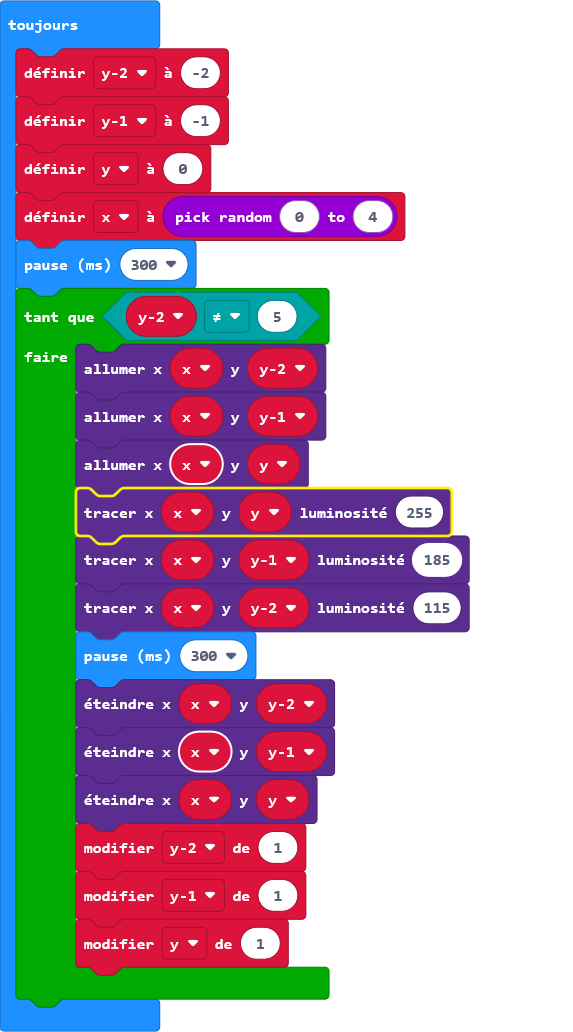
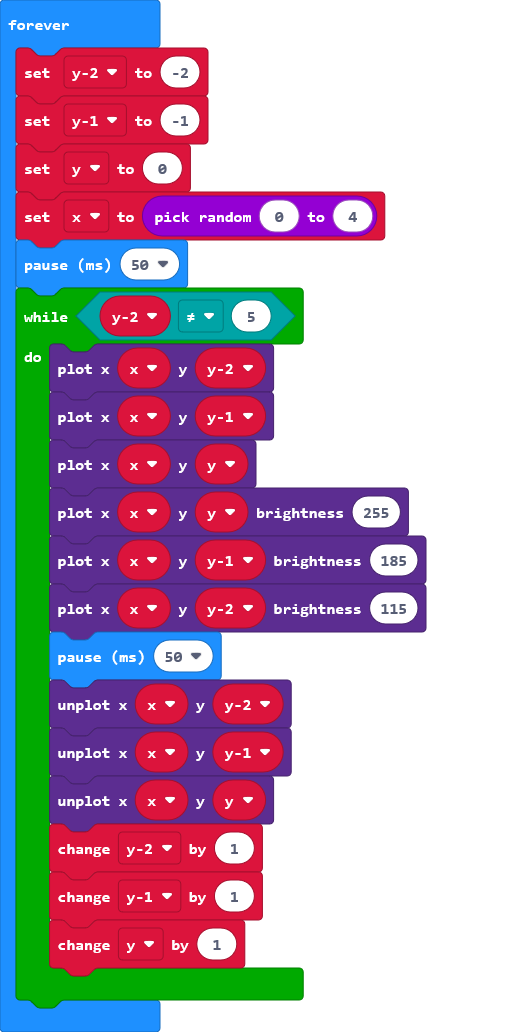
Update main.blocks, main.ts

Changed region(s): [[0.0, 0.0, 0.8453, 1.0], [0.5434, 0.9302, 0.5736, 0.9612]]

diff --git a/main.ts b/main.ts
@@ -7,7 +7,7 @@ basic.forever(function () {
     y1 = -1
     y = 0
     x = randint(0, 4)
-    basic.pause(300)
+    basic.pause(50)
     while (y2 != 5) {
         led.plot(x, y2)
         led.plot(x, y1)
@@ -15,7 +15,7 @@ basic.forever(function () {
         led.plotBrightness(x, y, 255)
         led.plotBrightness(x, y1, 185)
         led.plotBrightness(x, y2, 115)
-        basic.pause(300)
+        basic.pause(50)
         led.unplot(x, y2)
         led.unplot(x, y1)
         led.unplot(x, y)
